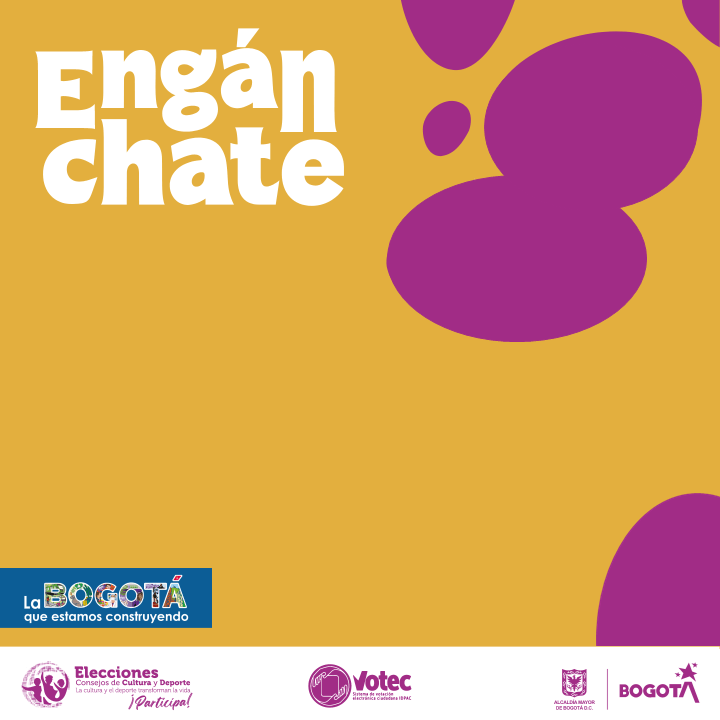
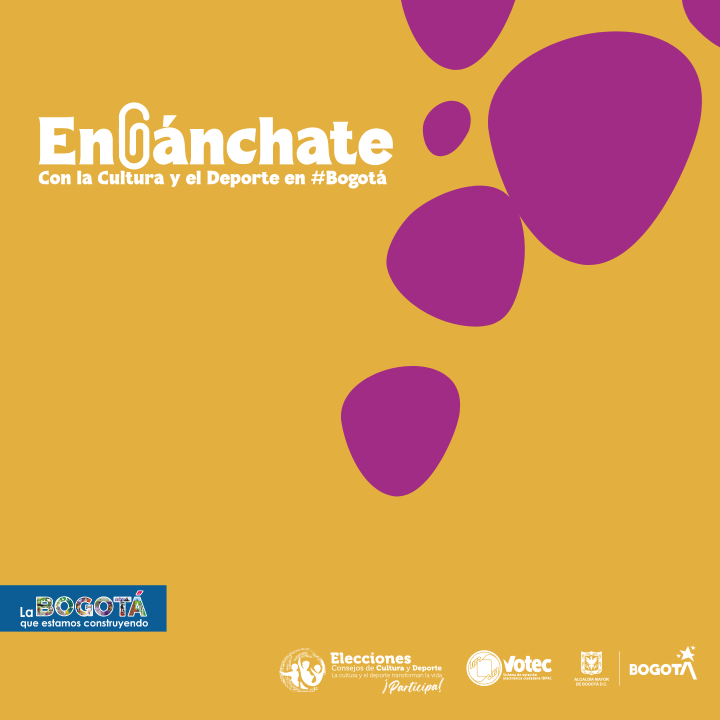
Update app
Current color schemes

diff --git a/static/scrd/elecciones-generador-perfiles.html b/static/scrd/elecciones-generador-perfiles.html
@@ -131,9 +131,9 @@
 	<div class="container">
 	<img class='header-logo' src='https://felipe-calvo.github.io/static/scrd/Logo%20Elecciones.png' alt='Elecciones Consejos de Cultura y Deporte 2023'/>
 	<div class='welcome'>
-	A través de este aplicativo las y los candidatos a los <b>Consejos de Cultura y Deporte 2023-2027</b> podrán crear un banner/flyer publicitario con el cual podrán hacer campaña. Elija una foto de perfil, ingrese su nombre, perfil, sector y tratamiento, y finalmente haga clic en el botón <b>Crear publicidad</b>.<br/>
+	A través de este aplicativo las y los candidatos a los <b>Consejos de Cultura y Deporte 2023-2027</b> podrán crear un banner/flyer publicitario con el cual podrán hacer campaña. Elija una foto de perfil, ingrese su nombre, perfil, sector, tratamiento y una paleta de colores, y finalmente haga clic en el botón <b>Crear publicidad</b>.<br/>
 	<br/>
-	Recuerde invitar a sus familiares, amigos, compañeros, conocidos, bases culturales/deportivas y comunidades a que se <a href='https://www.participacionbogota.gov.co/elecciones-consejos-de-cultura-y-deporte' target='_blank'>registren como electores en la plataforma VOTEC</a> para que puedan votar por usted entre el 6 y el 30 de junio de 2023. 
+	Recuerde invitar a sus familiares, amigos, compañeros, conocidos, bases culturales/deportivas y comunidades a que se <a style='color:blue' href='https://www.participacionbogota.gov.co/elecciones-consejos-de-cultura-y-deporte' target='_blank'>registren como electores en la plataforma VOTEC</a> para que puedan votar por usted entre el 6 y el 30 de junio de 2023. 
 	</div>
 		<form class="form" onsubmit="generateImage(); return false;">
 			<br/>
